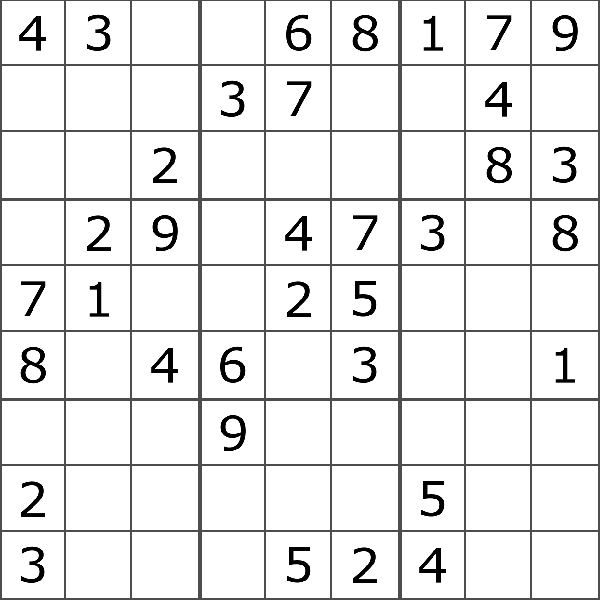
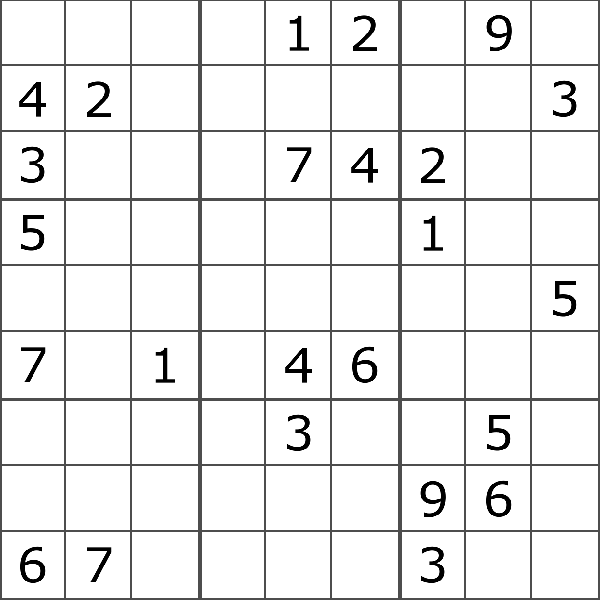
Minor improvements and bug fixes
v1.2.1

diff --git a/Sudoku/SudokuBoard.java b/Sudoku/SudokuBoard.java
@@ -12,14 +12,14 @@ import java.awt.image.BufferedImage;
  * Write a description of class SodokuBoard here.
  * 
  * @Noah Keck
- * @v1.2
+ * @v1.2.1
  * @2/9/2018
  */
 public class SudokuBoard extends World
 {
     private static GreenfootImage backdrop, blankSquare, cursorSquare;
     private static GreenfootImage[] numberImages, blueNumberImages, redNumberImages;
-    private static final int difficulty = 23;
+    private static final int difficulty = 26;
     private Cell[][] board;
     public Random rand;
     public static int size, numberOfSolutions;
@@ -165,19 +165,26 @@ public class SudokuBoard extends World
                     if (c != 8 && b[r][c] != 0 && b[r][c+1] != 0){ //extends to the right
                         for (int i = 0; i < 2; i++)
                             b[r][c+i] = 0;
+                        break;
                     }
                     else if (r != 8 && b[r][c] != 0 && b[r+1][c] != 0){ //extends below
                         for (int i = 0; i < 2; i++)
                             b[r+i][c] = 0;
+                        break;
                     }
-                    break;
                 }
                 else if (b[r][c] != 0){ //1 by 1
                     b[r][c] = 0;
                     break;
                 }
             }
-            checkForOneSolution(0,0,b.clone());
+            
+            int[][] cloned = new int[b.length][b[0].length];
+            for(int i = 0; i < board.length; i++)
+                for(int j = 0; j < board[i].length; j++)
+                    cloned[i][j] = b[i][j];
+                    
+            checkForOneSolution(0,0,cloned);
             if (numberOfSolutions <= 1){
                 for(int i = 0; i < board.length; i++)
                     for(int j = 0; j < board[i].length; j++)
@@ -192,8 +199,10 @@ public class SudokuBoard extends World
             else
                 b = convertToMatrix();
             numberOfSolutions = 0;
-            if (System.nanoTime() - startTime > Math.pow(10, 9)*4) // 3 seconds
-                return false;
+            if (System.nanoTime() - startTime > Math.pow(10, 9) * 5){ // 4 seconds
+                out.println("Failed to reduce puzzle. Reached a clue count of: " + clueCount);
+                return false; 
+            }
         }
         return true;
     }
@@ -323,6 +332,7 @@ public class SudokuBoard extends World
     public static GreenfootImage getMiniNumbers(ArrayList<Integer> orig)
     {
         ArrayList<Integer> nums = new ArrayList<Integer>(orig);
+        Collections.sort(nums);
         GreenfootImage image = new GreenfootImage(31*size, 31*size);
         for (int i = 0; i < 3 && !nums.isEmpty(); i++){
             for (int j = 0; j < 3 && !nums.isEmpty(); j++){

diff --git a/Sudoku/Cell.java b/Sudoku/Cell.java
@@ -7,7 +7,7 @@ import static greenfoot.Greenfoot.*;
  * May contain a zero to denote the fact that the cell is empty.
  * 
  * @Noah Keck
- * @v1.2
+ * @v1.2.1
  * @2/9/2018
  */
 public class Cell extends Actor
@@ -68,7 +68,7 @@ public class Cell extends Actor
                     num = 0;
                 }
             }
-            else if ((state == CellState.CLICKED || state == CellState.RCLICKED) && ms.getButton() == 1){
+            else if ((state == CellState.CLICKED || state == CellState.RCLICKED) && (ms.getButton() == 1 || ms.getButton() == 2)){
                 state = CellState.EMPTY;
                 setImage(world.getBlankSquare());
             }
@@ -96,7 +96,11 @@ public class Cell extends Actor
             image = world.getMiniNumbers(new ArrayList<Integer>(Arrays.asList(1,2,3,4,5,6,7,8,9)));
             for (int i = 1; i <= 9; i++){
                 if (isKeyDown(Integer.toString(i))){
-                    miniNums.add(i);
+                    if (miniNums.indexOf(new Integer(i)) != -1)
+                        miniNums.remove(new Integer(i));
+                    else
+                        miniNums.add(i);
+                    Collections.sort(miniNums);
                     image = world.getMiniNumbers(miniNums);
                     state = CellState.GUESSED;
                     break;
